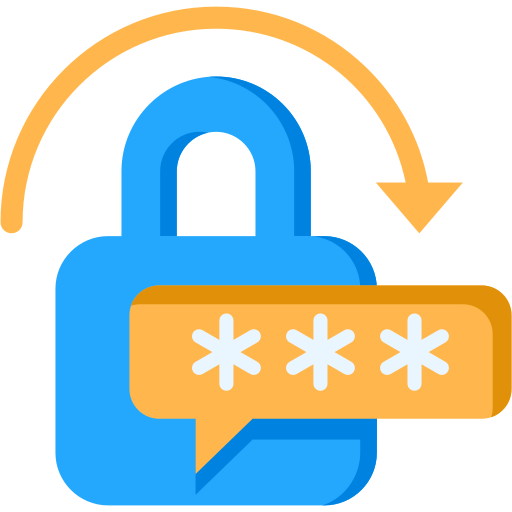
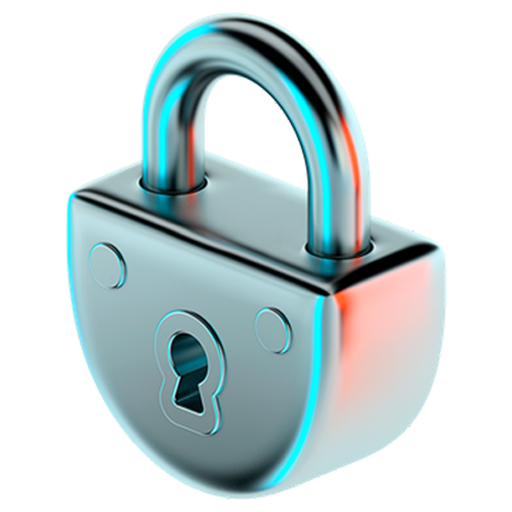
e

diff --git a/index.html b/index.html
@@ -4,13 +4,15 @@
     <meta charset="UTF-8" />
     <meta name="viewport" content="width=device-width, initial-scale=1.0" />
     <title>Password Generate</title>
-    <link rel="shortcut icon" href="padlock.png" type="image/x-icon" />
+    <link rel="shortcut icon" href="icon.png" type="image/x-icon" />
     <!-- Font Awesome -->
     <script
       src="https://kit.fontawesome.com/4c47838536.js"
       crossorigin="anonymous"></script>
     <!-- Style -->
     <link rel="stylesheet" href="style.css" />
+    <link rel="manifest" href="/manifest.json">
+
   </head>
   <body>
     <!-- adds -->
@@ -21,7 +23,7 @@
             alt="ylliX - Online Advertising Network" /></a></noscript>
     </div>
     <!-- INSERT HTML HERE -->
-     <main>
+    <main>
       <div id="add">
         <script type="text/javascript" src="https://udbaa.com/bnr.php?section=General&pub=365279&format=300x250&ga=g"></script>
         <noscript><a href="https://yllix.com/publishers/365279" target="_blank"><img
@@ -29,57 +31,57 @@
               alt="ylliX - Online Advertising Network" /></a></noscript>
       </div>
       <div class="container">
-      <h2>Password Generator</h2>
-      <div class="result-container">
-        <span id="result"></span>
-        <button class="btn hover" id="clipboard">
-          <i class="far fa-clipboard"></i>
-        </button>
-      </div>
-      <div class="settings">
-        <div class="setting">
-          <label>Password length</label>
-          <div class="cont">
-            <button id="decrement" onclick="stepper(this)">-</button>
-            <input
-              type="number"
-              id="length"
-              min="8"
-              max="30"
-              value="16"
-              step="1"
-              readonly />
-            <button id="increment" onclick="stepper(this)">+</button>
+        <h2>Password Generator</h2>
+        <div class="result-container">
+          <span id="result"></span>
+          <button class="btn hover" id="clipboard">
+            <i class="far fa-clipboard"></i>
+          </button>
+        </div>
+        <div class="settings">
+          <div class="setting">
+            <label>Password length</label>
+            <div class="cont">
+              <button id="decrement" onclick="stepper(this)">-</button>
+              <input
+                type="number"
+                id="length"
+                min="8"
+                max="30"
+                value="16"
+                step="1"
+                readonly />
+              <button id="increment" onclick="stepper(this)">+</button>
+            </div>
+          </div>
+          <div class="setting">
+            <label>Include uppercase letters (ABCDFG)</label>
+            <input type="checkbox" id="uppercase" checked />
+          </div>
+          <div class="setting">
+            <label>Include lowercase letters (abcdefg)</label>
+            <input type="checkbox" id="lowercase" checked />
+          </div>
+          <div class="setting">
+            <label>Include numbers (123456789)</label>
+            <input type="checkbox" id="numbers" checked />
+          </div>
+          <div class="setting">
+            <label>Include symbols (#$^%!&@)</label>
+            <input type="checkbox" id="symbols" checked />
           </div>
         </div>
-        <div class="setting">
-          <label>Include uppercase letters (ABCDFG)</label>
-          <input type="checkbox" id="uppercase" checked />
-        </div>
-        <div class="setting">
-          <label>Include lowercase letters (abcdefg)</label>
-          <input type="checkbox" id="lowercase" checked />
-        </div>
-        <div class="setting">
-          <label>Include numbers (123456789)</label>
-          <input type="checkbox" id="numbers" checked />
-        </div>
-        <div class="setting">
-          <label>Include symbols (#$^%!&@)</label>
-          <input type="checkbox" id="symbols" checked />
-        </div>
+        <button class="btn btn-large" id="generate">Generate password</button>
       </div>
-      <button class="btn btn-large" id="generate">Generate password</button>
-    </div>
-    <div id="add">
-      <script type="text/javascript"
-        src="https://udbaa.com/bnr.php?section=General&pub=365279&format=300x250&ga=g"></script>
-      <noscript><a href="https://yllix.com/publishers/365279" target="_blank"><img
-            src="//ylx-aff.advertica-cdn.com/pub/300x250.png"
-            style="border:none;margin:0;padding:0;vertical-align:baseline;"
-            alt="ylliX - Online Advertising Network" /></a></noscript>
-    </div>
-     </main>
+      <div id="add">
+        <script type="text/javascript"
+          src="https://udbaa.com/bnr.php?section=General&pub=365279&format=300x250&ga=g"></script>
+        <noscript><a href="https://yllix.com/publishers/365279" target="_blank"><img
+              src="//ylx-aff.advertica-cdn.com/pub/300x250.png"
+              style="border:none;margin:0;padding:0;vertical-align:baseline;"
+              alt="ylliX - Online Advertising Network" /></a></noscript>
+      </div>
+    </main>
     <!-- SOCIAL PANEL HTML -->
     <div class="social-panel-container">
       <div class="social-panel">

diff --git a/main.js b/main.js
@@ -121,3 +121,20 @@ floating_btn.addEventListener("click", () => {
 close_btn.addEventListener("click", () => {
   social_panel_container.classList.remove("visible");
 });
+
+
+if ("serviceWorker" in navigator) {
+  window.addEventListener("load", () => {
+    navigator.serviceWorker
+      .register("/service-worker.js")
+      .then((registration) => {
+        console.log(
+          "Service Worker registered with scope:",
+          registration.scope
+        );
+      })
+      .catch((error) => {
+        console.log("Service Worker registration failed:", error);
+      });
+  });
+}

diff --git a/service-worker.js b/service-worker.js
@@ -1,0 +1,25 @@
+const CACHE_NAME = "password-cache-v1";
+const urlsToCache = [
+  "/",
+  "/index.html",
+  "/style.css",
+  "/main.js",
+  "/icon.png",
+  "/icon.png"
+];
+
+self.addEventListener("install", event => {
+  event.waitUntil(
+    caches.open(CACHE_NAME).then(cache => {
+      return cache.addAll(urlsToCache);
+    })
+  );
+});
+
+self.addEventListener("fetch", event => {
+  event.respondWith(
+    caches.match(event.request).then(response => {
+      return response || fetch(event.request);
+    })
+  );
+});
